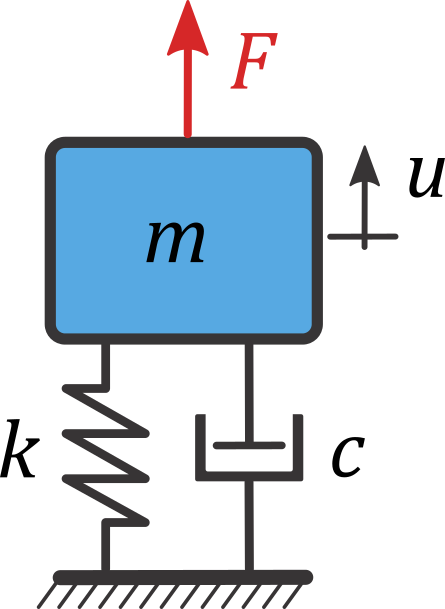
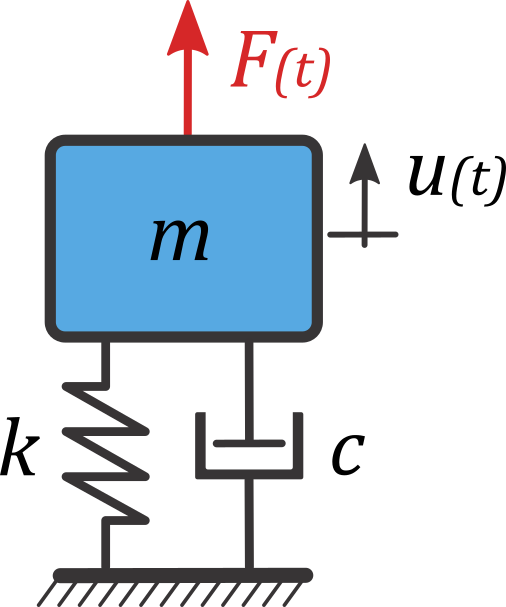
Final correction

diff --git a/main.py b/main.py
@@ -33,7 +33,7 @@ def header():
     with col1:
         st.markdown("Choosing an optimal vibroisolation can be a cumbersome task. Majority of complex dynamic systems cannot be simplified into a simple 1-DoF system. However, to quickly access a simple vibroisolation prediction, we can utilize a simple 1-DoF dynamic systen to determine the influence of oscilating mass $m$, damping $c$ and stifness $k$ on the natural frequncy and later on isolation effectiveness.")
     with col2:
-        st.image("sdof.png", width = 120)
+        st.image("sdof.png", width = 150)
 
     st.sidebar.image("https://pyfbs.readthedocs.io/en/latest/_static/logo-big.png",width = 250)
     st.sidebar.title("A simple 1-DoF calculator")
@@ -48,10 +48,11 @@ def app():
 
         st.markdown("The equation of motion for the particular 1-DoF system can be written as follows:")
 
-        st.markdown(r"""$m \ddot{u} + c\dot{u} + k u = f$""")
-        st.markdown("The equation can be solved analyticaly, by defining: ")
-        st.markdown(r""" $\frac{k}{m} = \omega_0^2  \quad \text{and} \quad \frac{c}{m}=2\delta\omega_0$""")
-        st.markdown("By substituting back into equation we can derive:")
+        st.markdown(r"""$m \ddot{u}(t) + c\dot{u}(t) + k u(t) = F(t)$""")
+        st.markdown("By defining ${k}/{m} = \omega_0^2$ and ${c}/{m}=2\delta\omega_0$, and applying Fourier transform we can rewrite the equation: ")
+        #st.markdown(r""" $\frac{k}{m} = \omega_0^2  \quad \text{and} \quad \frac{c}{m}=2\delta\omega_0$""")
+        #st.markdown("By substituting back into equation we can derive:")
+        st.markdown(r"""$-\omega^2 m U (\omega) + 2 \delta \omega_0 i U(\omega) + \omega_0^2 U(\omega) = {F(\omega)}$""")
 
 
         #st.markdown(r"""$(-\omega^2m+i c\omega + k)u = \frac{f}{m}$""")
@@ -59,9 +60,9 @@ def app():
 
         #st.markdown("... ")
 
-        st.markdown(r""" $\bigg(1-\big(\frac{\omega_0}{\omega}\big)^2+2i\delta\big(\frac{\omega_0}{\omega}\big)\bigg)u = \frac{f}{m}$""")
-        st.markdown("Finnaly frequency response function is defined as an inverse:")
-        st.markdown(r""" $Y = \bigg(1-\big(\frac{\omega_0}{\omega}\big)^2+2i\delta\big(\frac{\omega_0}{\omega}\big)\bigg)^{-1}$ """)
+        #st.markdown(r""" $\bigg(1-\big(\frac{\omega_0}{\omega}\big)^2+2i\delta\big(\frac{\omega_0}{\omega}\big)\bigg)u = \frac{f}{m}$""")
+        st.markdown("Finnaly we can derive frequency response function:")
+        st.markdown(r"""$Y (\omega) = \frac{ U (\omega)}{F(\omega)} = \frac{1}{m(\omega_0^2-\omega^2+2\delta\omega_0 i \omega)}$""")
 
 
 
@@ -217,6 +218,7 @@ def get_in_touch():
     action="https://formsubmit.co/bregar.toma@gmail.com" 
     method="POST">
         <input type = "text" name= "name" placeholder = "Your name" required>
+        <input type="hidden" name="_cc" value="another@email.com">
         <input type = "email" name= "email" placeholder = "Your email" required>
         <textarea name= "message" placeholder = "Your message here" required>
         <button type = "submit">Send</button>
